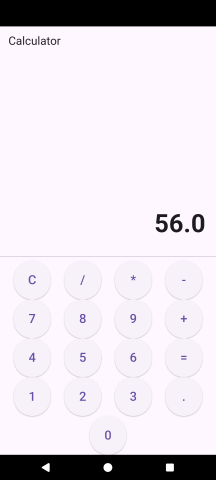
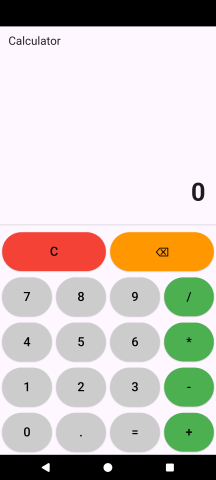
More visually pleasing now v2

diff --git a/lib/main.dart b/lib/main.dart
@@ -82,10 +82,10 @@ class _CalculatorScreenState extends State<CalculatorScreen> {
             ),
             Divider(),
             _buildButtonRow(['C', '⌫']),
-            _buildButtonRow(['7', '8', '9', '*']),
-            _buildButtonRow(['4', '5', '6', '-']),
-            _buildButtonRow(['1', '2', '3', '+']),
-            _buildButtonRow(['0', '.', "=", '/']),
+            _buildButtonRow(['7', '8', '9', '/']),
+            _buildButtonRow(['4', '5', '6', '*']),
+            _buildButtonRow(['1', '2', '3', '-']),
+            _buildButtonRow(['0', '.', "=", '+']),
           ],
         ),
       ),
